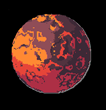
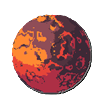
changes to add better planets

diff --git a/player.py b/player.py
@@ -6,20 +6,23 @@ import math
 class Player(pg.sprite.Sprite):
     def __init__(self) -> None:
         super().__init__()
+        
         self.theta = 0
         self.radius = 10
-        self.img = pg.image.load("assets/plane.png").convert_alpha()
-        self.rect = self.img.get_rect(topleft=(HALF_WIDTH,HALF_HEIGHT))
         
-        
+        self.img = pg.image.load("assets/plane.png")
+        self.rect = self.img.get_rect(center=(HALF_WIDTH - (math.sin(self.theta) * 100), HALF_HEIGHT - (math.cos(self.theta) * 100)))
 
     def draw(self, screen):
         screen.blit(self.img, self.rect)
+        
+        
         self.movement()
         
     def movement(self):
         # player_pos = pg.Vector2(HALF_WIDTH + math.sin(self.theta) * self.radius,  HALF_HEIGHT + math.cos(self.theta) * self.radius)
         self.rect.x += math.cos(self.theta) * self.radius
         self.rect.y += math.sin(self.theta) * self.radius
+        
         
         self.theta += 0.1

diff --git a/main.py b/main.py
@@ -15,8 +15,8 @@ class App:
         self.player = Player()
         
         #planet vars
-        self.planet_surf = pg.image.load("assets/planet.png").convert_alpha()
-        self.planet_rect = self.planet_surf.get_rect(center = HALF_RES)
+        self.planet_surf = pg.image.load("assets/planet2.png").convert_alpha()
+        self.planet_rect = self.planet_surf.get_rect(center=HALF_RES)
         
     def game_loop(self):
         # basic game loop
